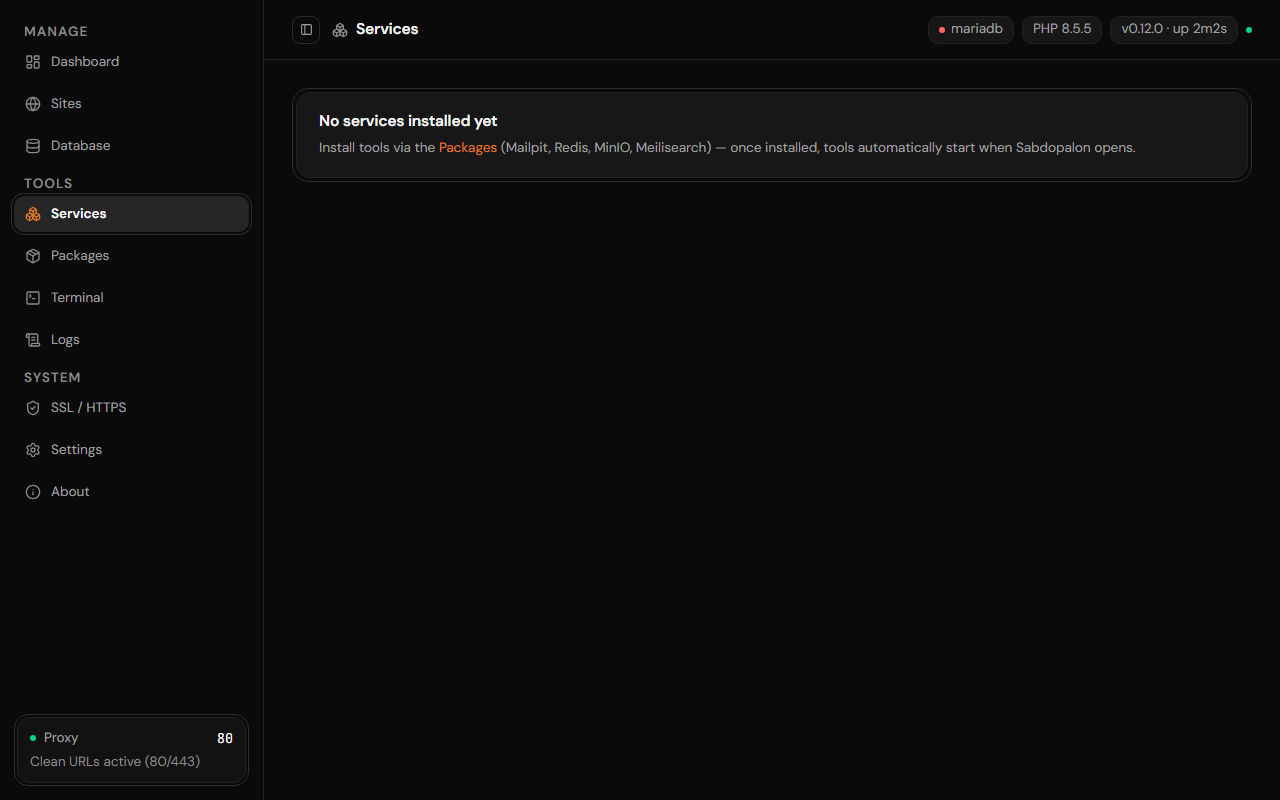
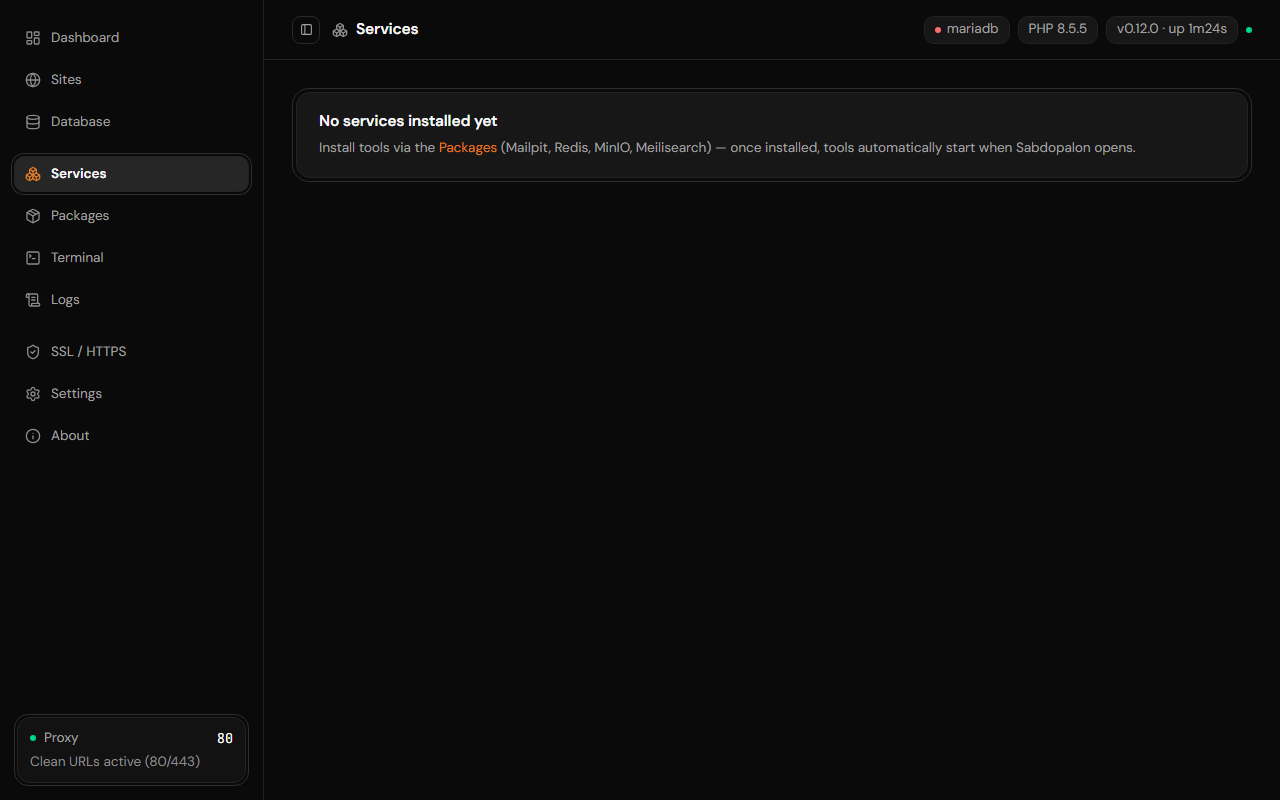
ui(sidebar): drop the MANAGE / TOOLS / SYSTEM labels
Three small headings split nine pages into three short lists without
adding a single fact: the pages are what they are, and the gap between
the groups still reads. The sidebar is one clean list now, with a
little more air between the groups.

diff --git a/internal/dashboard/ui/src/components/app-sidebar.tsx b/internal/dashboard/ui/src/components/app-sidebar.tsx
@@ -18,7 +18,6 @@ import {
   SidebarFooter,
   SidebarGroup,
   SidebarGroupContent,
-  SidebarGroupLabel,
   SidebarMenu,
   SidebarMenuButton,
   SidebarMenuItem,
@@ -78,10 +77,7 @@ export default function AppSidebar() {
     <Sidebar collapsible="offcanvas" className="border-r border-sidebar-border">
       <SidebarContent className="px-3.5 py-5">
         {NAV_GROUPS.map((group) => (
-          <SidebarGroup key={group.label} className="px-0 py-0">
-            <SidebarGroupLabel className="h-6 px-2.5 text-[13.5px] font-semibold tracking-[0.08em] text-text-muted uppercase">
-              {group.label}
-            </SidebarGroupLabel>
+          <SidebarGroup key={group.label} className="px-0 pt-2 pb-0 first:pt-0">
             <SidebarGroupContent>
               <SidebarMenu className="gap-1.5">
                 {group.items.map((item) => (

diff --git a/docs/ui-revamp-plan.md b/docs/ui-revamp-plan.md
@@ -1047,3 +1047,10 @@ header, tab, dan isi bergerak bersama. Tab Terminal memakai tinggi sendiri
   masuk ke dalam segmented control tab, seperti pada desain.
 - `npm run typecheck` memakai `tsc --noEmit` di atas tsconfig *solution-style*,
   sehingga **tidak memeriksa apa pun**. Diganti `tsc -b` (yang dipakai build).
+
+### 6. Judul grup di sidebar dihapus
+
+Label **MANAGE / TOOLS / SYSTEM** dihapus. Tiga label kecil itu memecah daftar
+sembilan halaman jadi tiga daftar pendek tanpa menambah informasi apa pun —
+halaman yang tersedia sudah diketahui, dan jaraknya antar kelompok tetap terasa.
+Sidebar sekarang satu daftar bersih, dengan jarak antar kelompok yang lebih longgar.
